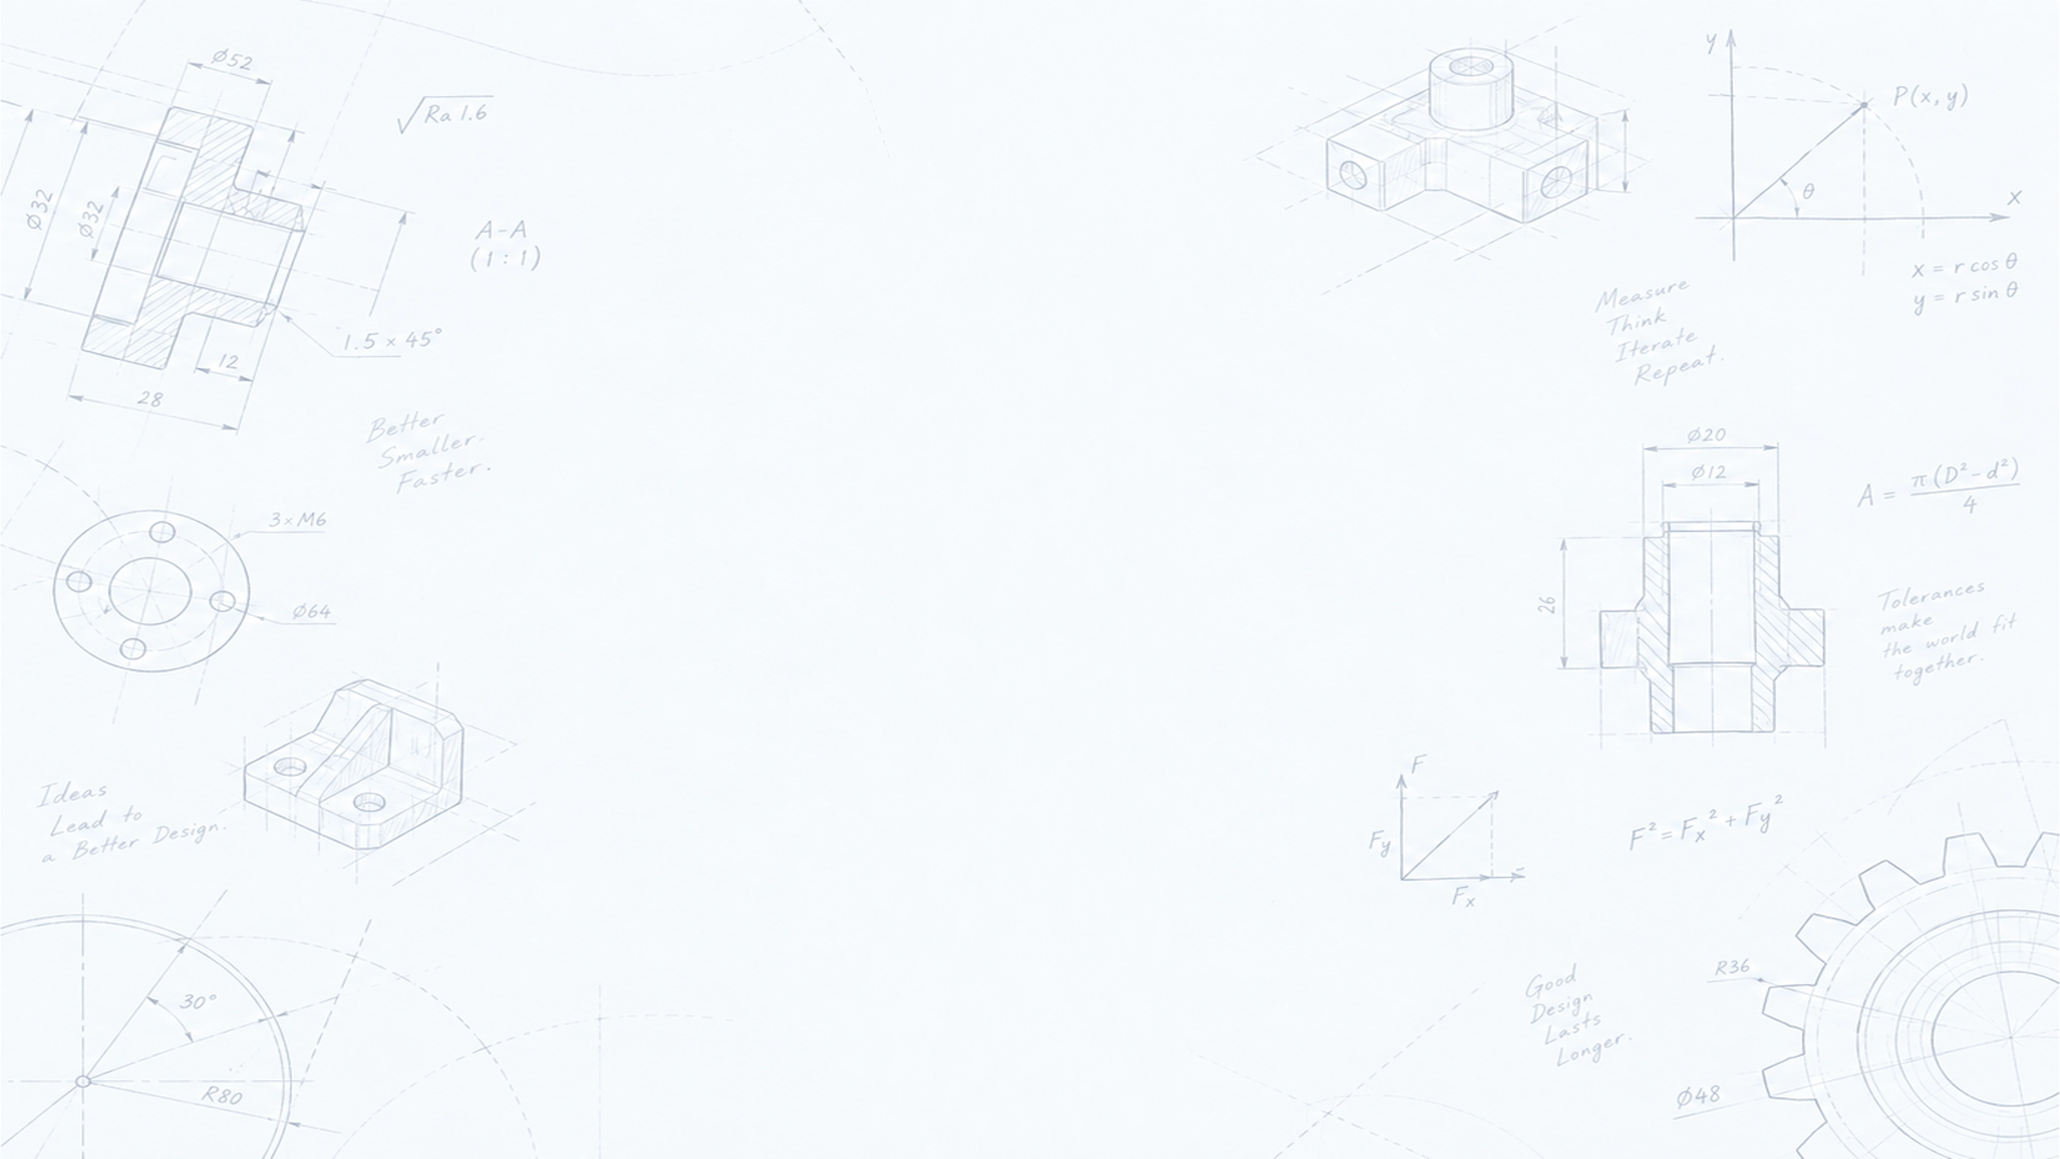
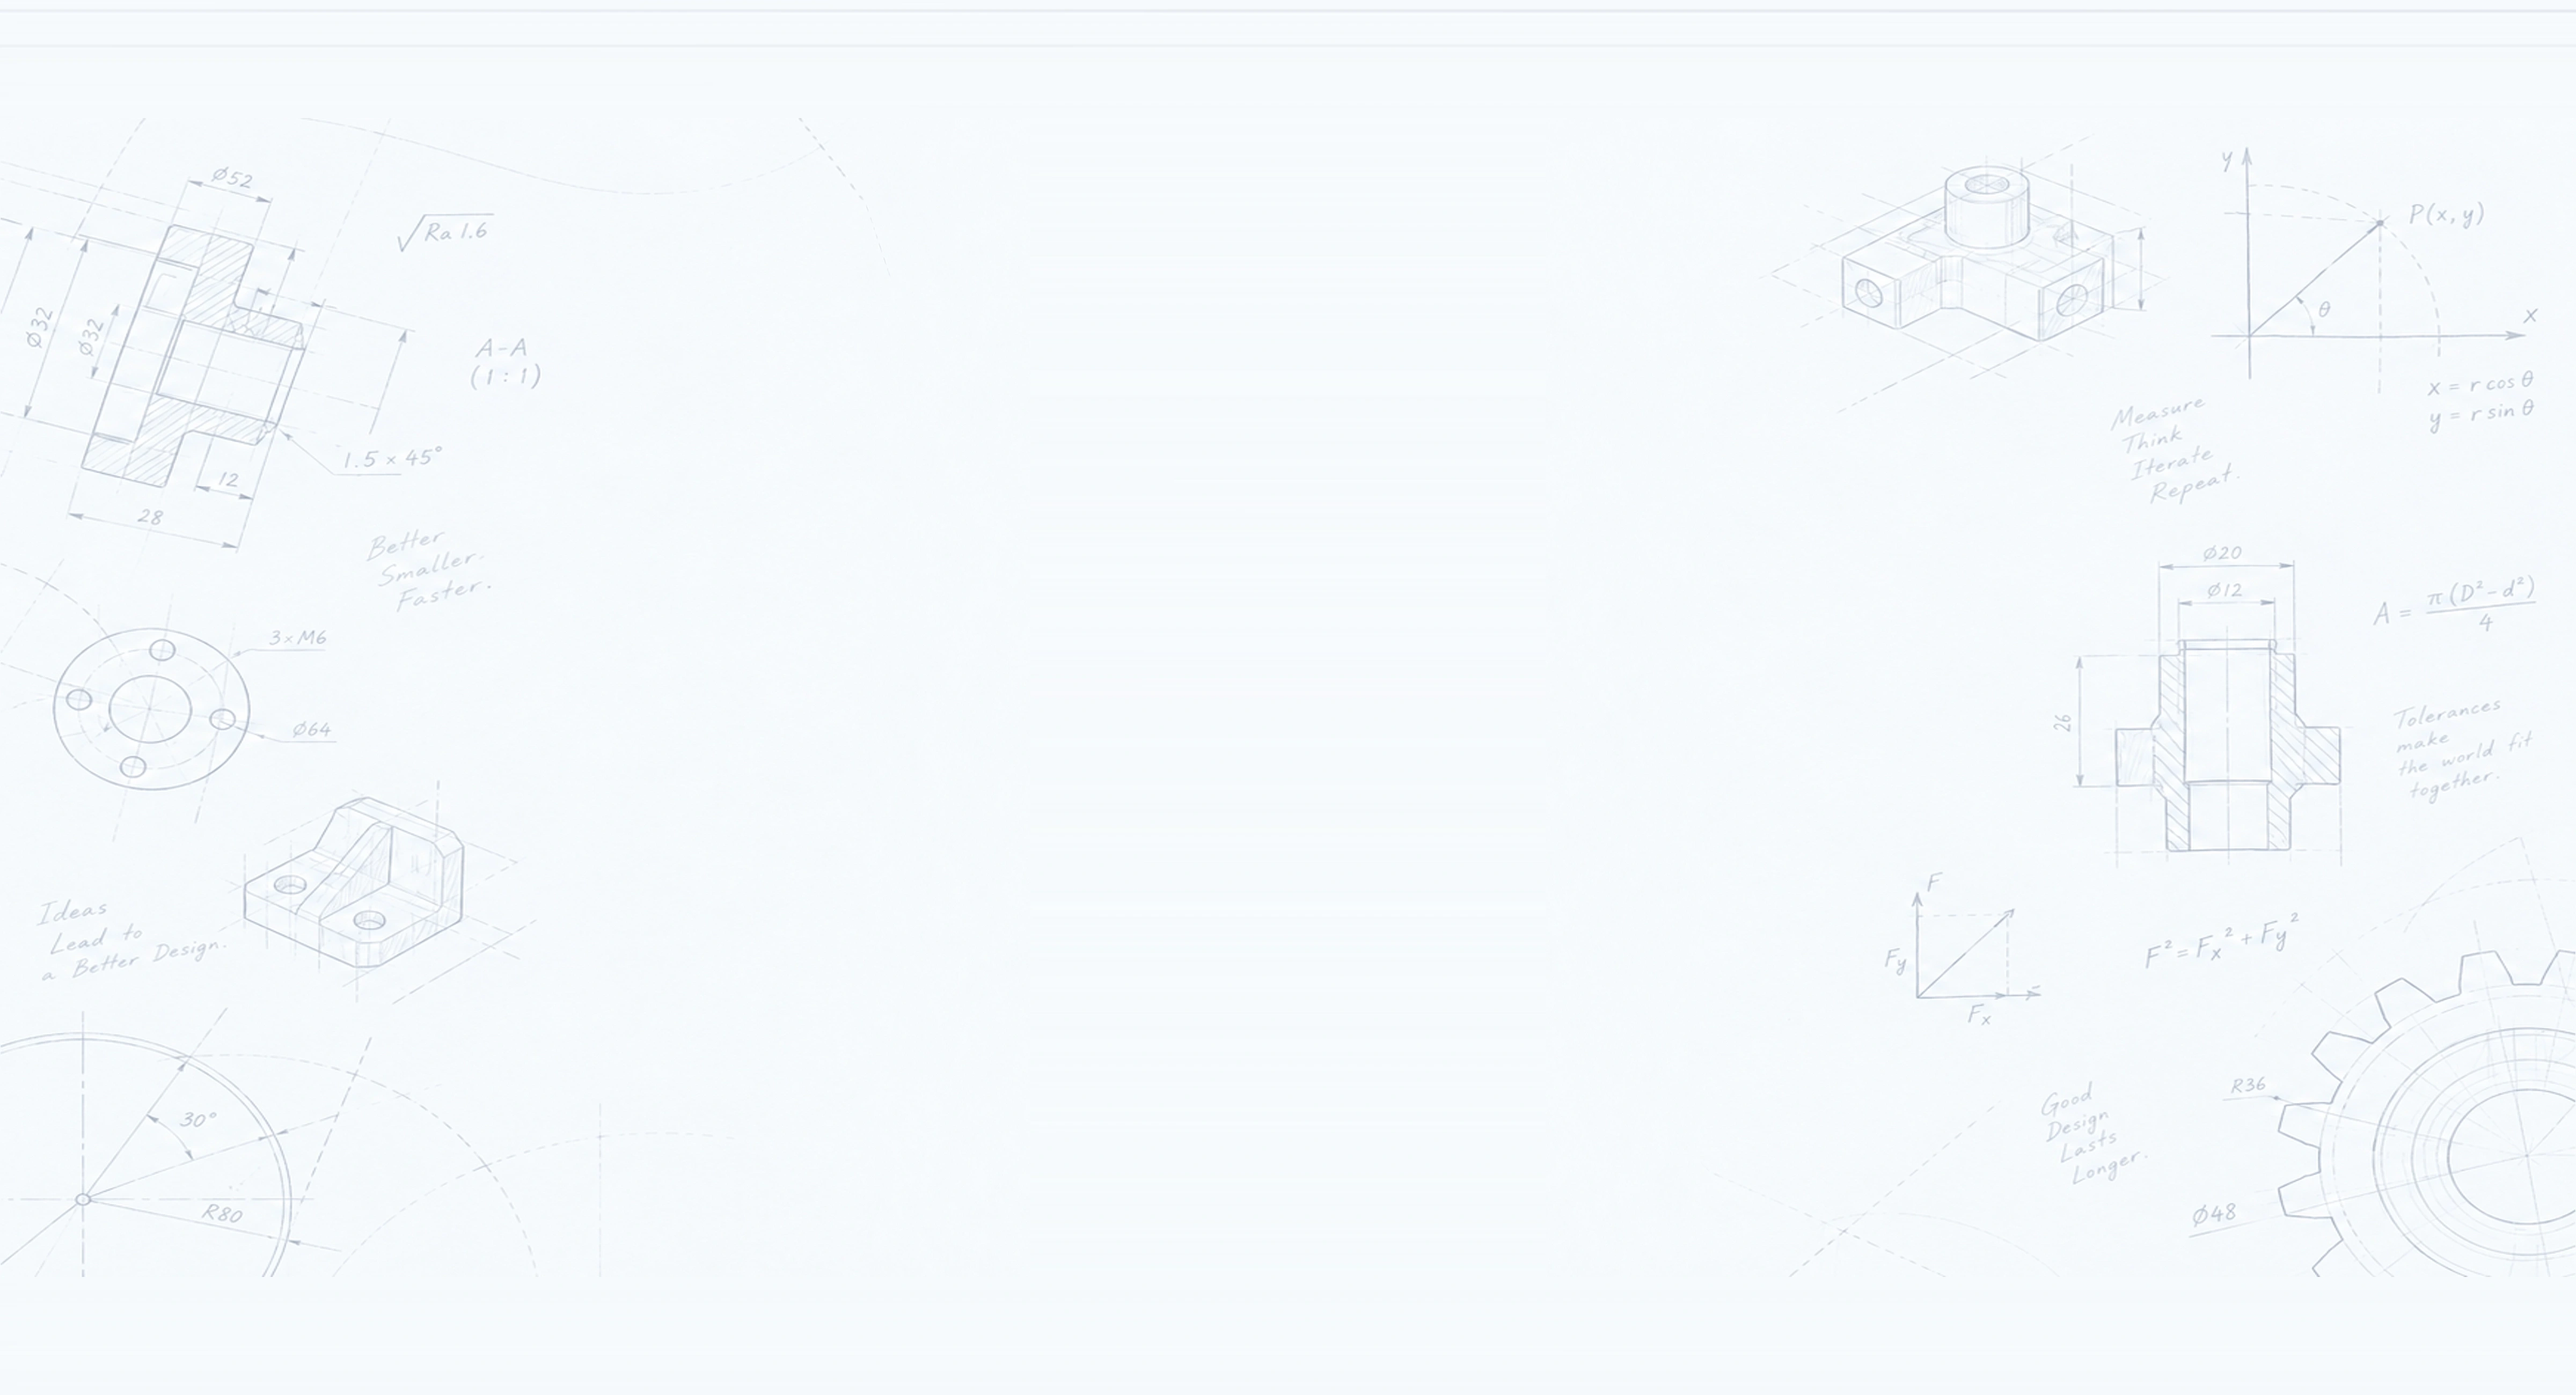
style(app): 手稿素材加宽到 4800×2600，铺满视口且图元不放大
cover 在 1920×1040 下正好 0.4 倍，与原先固定 1536×864 的图元大小一致。
素材左右两组图元 1:1 原样贴两端，中间与上下用纸面补齐，避免非 16:9 窗口裁掉边缘图案。

diff --git a/src/app.css b/src/app.css
@@ -7952,8 +7952,10 @@ button:focus-visible {
   }
 }
 
-/* 手稿随视口铺满（cover 保比例、超出居中裁切）；源图 3840×2160，正常窗口只会缩小不会放大。
-   边缘渐隐避免图片边界；别再钉成固定尺寸，大窗口会只剩中间一小块手稿。 */
+/* 手稿铺满视口、保比例居中裁切。素材是为"铺满且图元不放大"专门加宽的 4800×2600 手稿：
+   左右两组图元 1:1 原样摆在画布两端，上下与中间的空隙用纸面补齐（原图 3840×2160 在 1920 窗口下
+   缩到 40% 只有 1536 宽，铺满就必须放大 1.25 倍，图元会变粗）。
+   cover 在 1920×1040 下正好 0.4 倍 —— 与固定 1536×864 那版的图元大小相同，这是关键，别换回窄画布。 */
 .dawn-backdrop {
   display: none;
   position: fixed;
